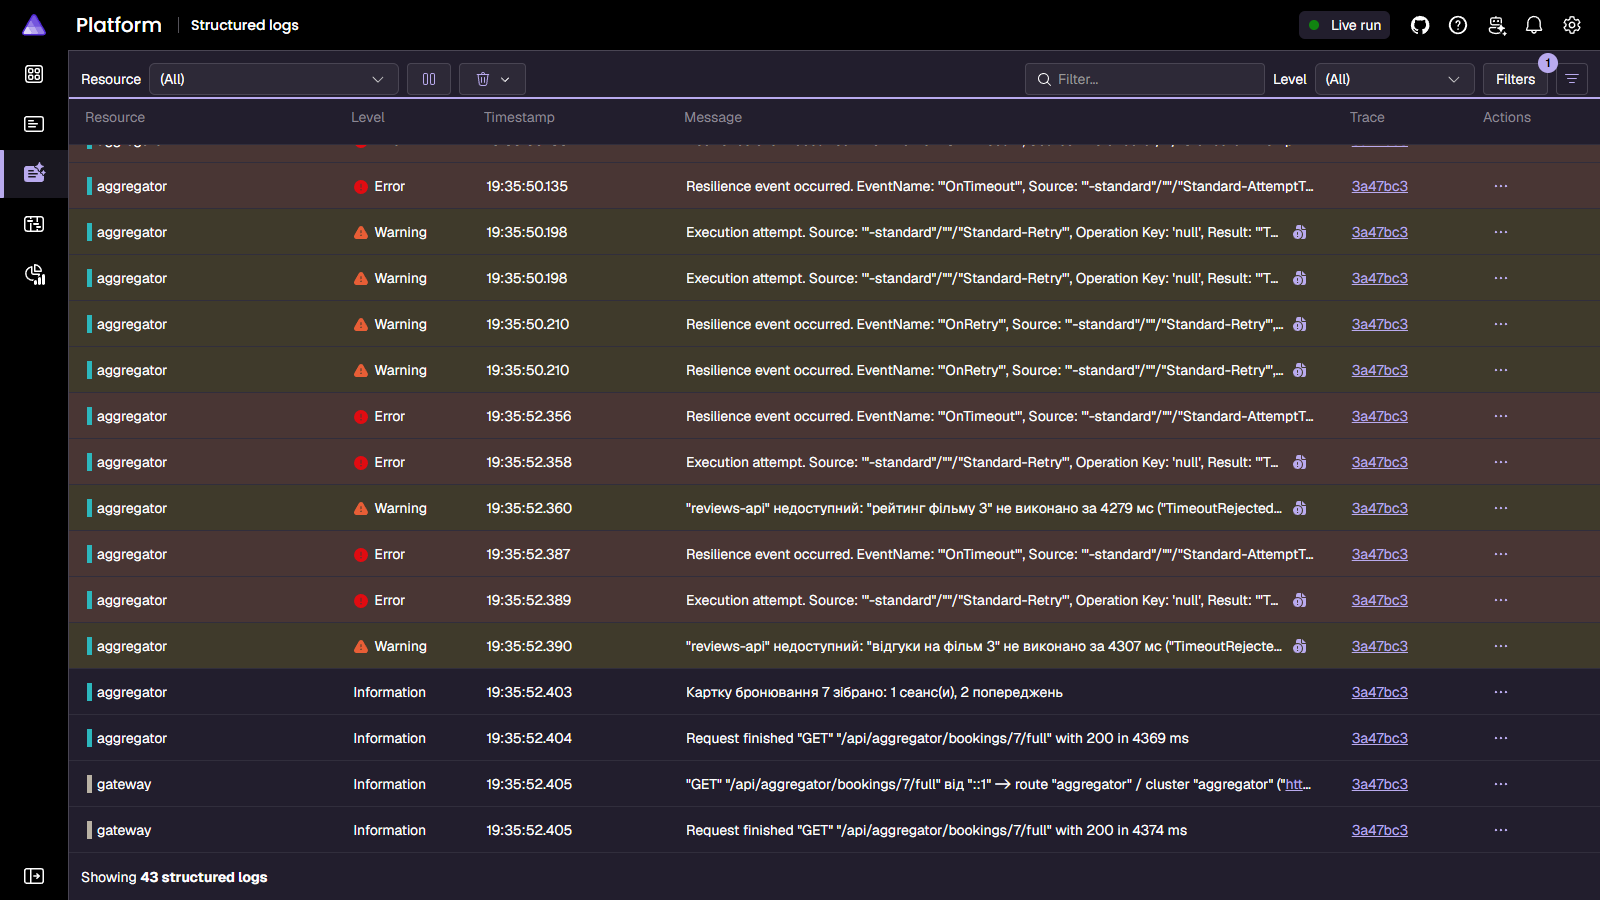
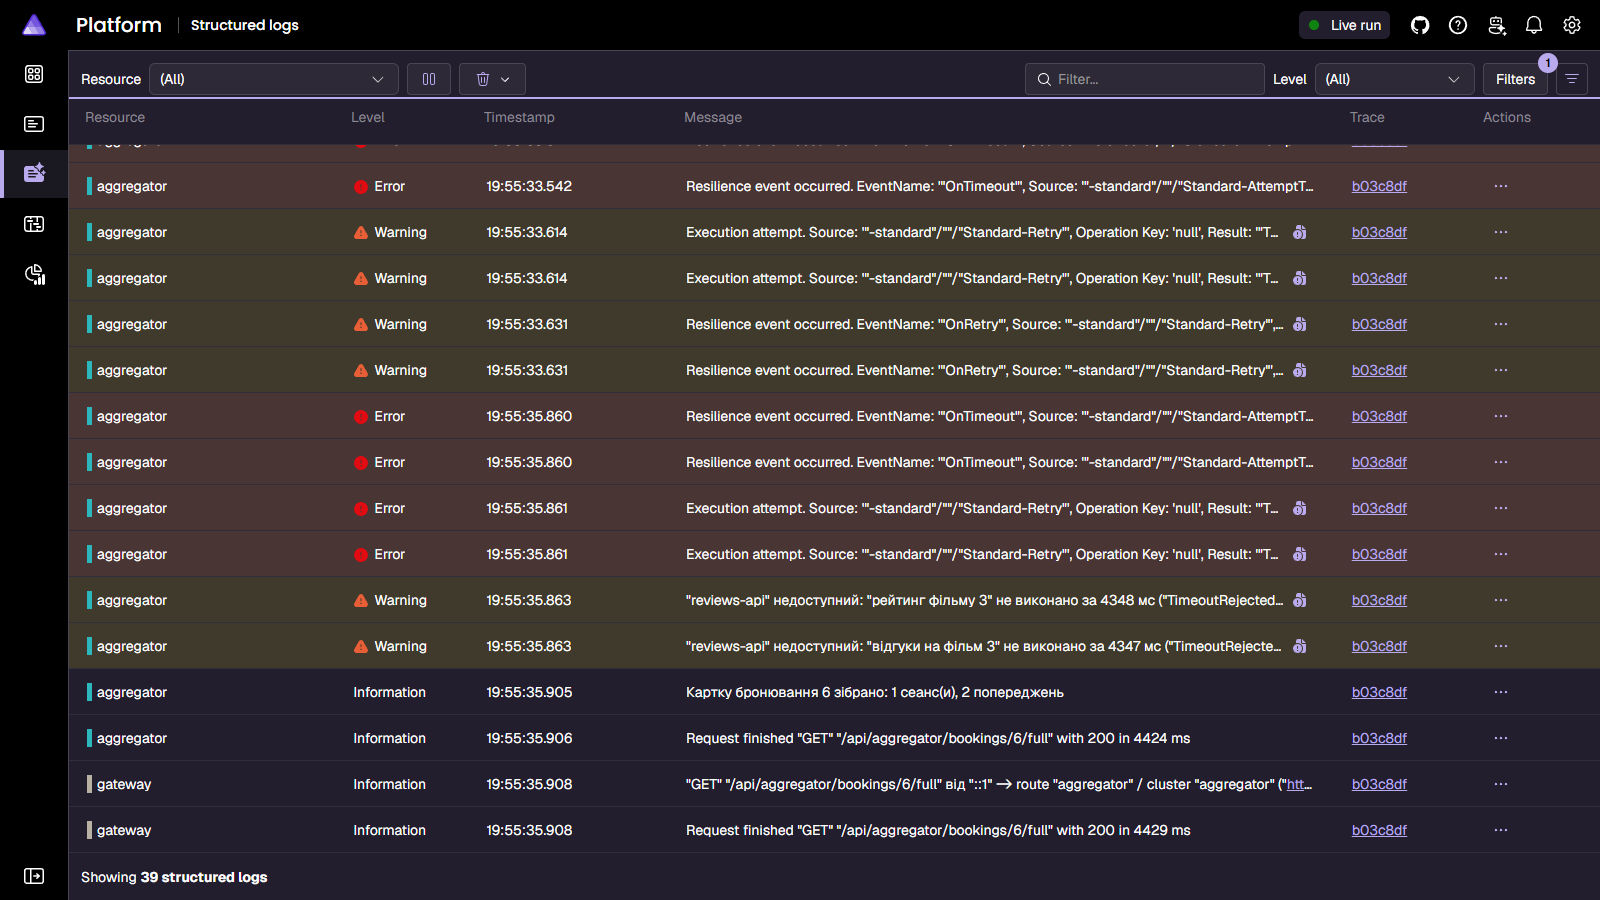
Lab05: доопрацювання — без дублювання Serilog і CorrelationId у сервісах, бізнес-логи в контролерах, Dockerfile для Gateway і Catalog, перевірка чистого старту

diff --git a/docs/lab05/scripts/demo.js b/docs/lab05/scripts/demo.js
@@ -78,6 +78,7 @@ function listenPort(exe) {
   const f = encodeURIComponent('CorrelationId:equals:demo-aggregate-booking');
   await shot(`/structuredlogs?filters=${f}`, 'logs-by-correlation-id.png', 7000);
   await shot('/traces', 'traces-list.png');
+  await shot('/structuredlogs?logLevel=error', 'check-errors-before-stop.png');   // перевірка: помилок старту немає
 
   // ---------- 4. Часткова відмова: зупиняємо reviews-api ----------
   try { execSync('taskkill /IM Reviews.WebApi.exe /F'); console.log('reviews-api stopped'); } catch (e) { console.log('taskkill: ' + e.message); }

diff --git a/Services/Booking/BookingService.Api/Controllers/BookingsController.cs b/Services/Booking/BookingService.Api/Controllers/BookingsController.cs
@@ -1,3 +1,4 @@
+using System.Diagnostics;
 using BookingService.Bll.Dtos;
 using BookingService.Bll.Services;
 using Microsoft.AspNetCore.Mvc;
@@ -12,7 +13,7 @@ namespace BookingService.Api.Controllers;
 [ApiController]
 [Route("api/bookings")]
 [Produces("application/json")]
-public sealed class BookingsController(IBookingService bookings) : ControllerBase
+public sealed class BookingsController(IBookingService bookings, ILogger<BookingsController> logger) : ControllerBase
 {
     /// <summary>Бронювання з квитками та історією статусів.</summary>
     [HttpGet("{id:long}")]
@@ -32,6 +33,10 @@ public sealed class BookingsController(IBookingService bookings) : ControllerBas
     public async Task<ActionResult<BookingDto>> Create(CreateBookingDto input, CancellationToken ct)
     {
         var created = await bookings.CreateAsync(input, ct);
+        Activity.Current?.SetTag("booking.id", created.Id);           // бізнес-атрибути на span HTTP-запиту
+        Activity.Current?.SetTag("booking.status", created.Status);
+        logger.LogInformation("API: бронювання {BookingId} створено через канал {Channel}, статус {Status}",
+            created.Id, created.Channel, created.Status);
         return CreatedAtAction(nameof(GetById), new { id = created.Id }, created);
     }
 
@@ -44,6 +49,8 @@ public sealed class BookingsController(IBookingService bookings) : ControllerBas
         [FromBody(EmptyBodyBehavior = EmptyBodyBehavior.Allow)] BookingActionDto? action, CancellationToken ct)
     {
         await bookings.ConfirmAsync(id, action, ct);
+        Activity.Current?.SetTag("booking.id", id);
+        logger.LogInformation("API: бронювання {BookingId} підтверджено", id);
         return NoContent();
     }
 
@@ -61,6 +68,10 @@ public sealed class BookingsController(IBookingService bookings) : ControllerBas
         [FromHeader(Name = "Idempotency-Key")] string? idempotencyKey, CancellationToken ct)
     {
         var result = await bookings.PayAsync(id, input, idempotencyKey, ct);
+        Activity.Current?.SetTag("booking.id", id);
+        Activity.Current?.SetTag("payment.replayed", result.Replayed);
+        logger.LogInformation("API: оплата {PaymentId} бронювання {BookingId}, повторний запит: {Replayed}",
+            result.Payment.Id, id, result.Replayed);
         return result.Replayed
             ? Ok(result.Payment)
             : CreatedAtAction(nameof(Payments), new { id }, result.Payment);
@@ -87,6 +98,8 @@ public sealed class BookingsController(IBookingService bookings) : ControllerBas
         [FromBody(EmptyBodyBehavior = EmptyBodyBehavior.Allow)] BookingActionDto? action, CancellationToken ct)
     {
         await bookings.CancelAsync(id, action, ct);
+        Activity.Current?.SetTag("booking.id", id);
+        logger.LogInformation("API: бронювання {BookingId} скасовано", id);
         return NoContent();
     }
 

diff --git a/Services/Reviews/Reviews.WebApi/Controllers/ReviewsController.cs b/Services/Reviews/Reviews.WebApi/Controllers/ReviewsController.cs
@@ -1,3 +1,4 @@
+using System.Diagnostics;
 using Microsoft.AspNetCore.Mvc;
 using Reviews.Application.Common.Models;
 using Reviews.Application.Reviews.Commands;
@@ -8,7 +9,7 @@ namespace Reviews.WebApi.Controllers;
 
 /// <summary>Відгуки глядачів (колекція reviews) з вкладеними коментарями.</summary>
 [Route("api/reviews")]
-public sealed class ReviewsController : ApiControllerBase
+public sealed class ReviewsController(ILogger<ReviewsController> logger) : ApiControllerBase
 {
     /// <summary>
     /// Список відгуків: фільтри (фільм, автор, оцінка, перевірений глядач), повнотекстовий пошук search,
@@ -52,6 +53,9 @@ public sealed class ReviewsController : ApiControllerBase
     {
         var review = await Sender.Send(command, ct);
         SetETag(review.Version);
+        Activity.Current?.SetTag("review.id", review.Id);
+        Activity.Current?.SetTag("movie.id", review.MovieId);
+        logger.LogInformation("API: відгук {ReviewId} на фільм {MovieId} опубліковано, оцінка {Rating}", review.Id, review.MovieId, review.Rating);
         return CreatedAtAction(nameof(GetById), new { id = review.Id }, review);
     }
 
@@ -66,6 +70,8 @@ public sealed class ReviewsController : ApiControllerBase
     {
         var review = await Sender.Send(MapCommand<UpdateReviewCommand>(request, id, IfMatchVersion()), ct);
         SetETag(review.Version);
+        Activity.Current?.SetTag("review.id", review.Id);
+        logger.LogInformation("API: відгук {ReviewId} оновлено до версії {Version}", review.Id, review.Version);
         return Ok(review);
     }
 
@@ -78,6 +84,8 @@ public sealed class ReviewsController : ApiControllerBase
     public async Task<IActionResult> Delete(string id, [FromHeader(Name = "If-Match")] string? ifMatch, CancellationToken ct)
     {
         await Sender.Send(new DeleteReviewCommand(id, IfMatchVersion()), ct);
+        Activity.Current?.SetTag("review.id", id);
+        logger.LogInformation("API: відгук {ReviewId} видалено", id);
         return NoContent();
     }
 

diff --git a/Services/Booking/BookingService.Api/Program.cs b/Services/Booking/BookingService.Api/Program.cs
@@ -1,8 +1,9 @@
+using System.Diagnostics;
 using System.Reflection;
+using System.Text;
 using BookingService.Api.Infrastructure;
 using BookingService.Bll;
-using System.Text;
-using Serilog;
+using Platform.ServiceDefaults;
 
 Console.OutputEncoding = Encoding.UTF8;   // українські повідомлення в консолі без «кракозябр»
 
@@ -27,8 +28,8 @@ builder.Services.AddControllers();
 // --- Помилки: доменні винятки → HTTP-статуси, формат ProblemDetails (RFC 9457) ----------
 builder.Services.AddProblemDetails(o => o.CustomizeProblemDetails = ctx =>
 {
-    ctx.ProblemDetails.Extensions["traceId"] = ctx.HttpContext.TraceIdentifier;
-    if (ctx.HttpContext.Items[CorrelationIdMiddleware.ItemKey] is string correlationId)
+    ctx.ProblemDetails.Extensions["traceId"] = Activity.Current?.TraceId.ToString() ?? ctx.HttpContext.TraceIdentifier;
+    if (ctx.HttpContext.Items[CorrelationIdMiddleware.ItemKey] is string correlationId)   // CorrelationId з ServiceDefaults
         ctx.ProblemDetails.Extensions["correlationId"] = correlationId;
 });
 builder.Services.AddExceptionHandler<DomainExceptionHandler>();
@@ -45,9 +46,7 @@ builder.Services.AddSwaggerGen(options =>
 
 var app = builder.Build();
 
-app.UseCorrelationId();                         // Лаб. 05: X-Correlation-Id з Gateway (або новий) → LogContext і відповідь
-app.UseMiddleware<CorrelationIdMiddleware>();   // CorrelationId — у кожен запис логу цього запиту
-app.UseSerilogRequestLogging();                 // один рядок на запит з ФІНАЛЬНИМ статусом (після обробника)
+app.UseCorrelationId();                         // Лаб. 05: X-Correlation-Id з Gateway (або новий) → LogContext, відповідь, лог початку/кінця запиту
 app.UseExceptionHandler();                      // доменні винятки → 404 / 409 / 400 (DomainExceptionHandler)
 app.UseStatusCodePages();                       // порожні 4xx/5xx теж повертаються як ProblemDetails
 

diff --git a/Services/Reviews/Reviews.WebApi/Program.cs b/Services/Reviews/Reviews.WebApi/Program.cs
@@ -1,3 +1,4 @@
+using System.Diagnostics;
 using System.Reflection;
 using System.Text;
 using System.Text.Json.Serialization;
@@ -7,7 +8,7 @@ using Reviews.Infrastructure.Persistence;
 using Reviews.Application;
 using Reviews.Infrastructure;
 using Reviews.WebApi.Infrastructure;
-using Serilog;
+using Platform.ServiceDefaults;
 
 Console.OutputEncoding = Encoding.UTF8;
 
@@ -40,8 +41,8 @@ builder.Services.AddControllers(o =>
 
 builder.Services.AddProblemDetails(o => o.CustomizeProblemDetails = ctx =>
 {
-    ctx.ProblemDetails.Extensions["traceId"] = ctx.HttpContext.TraceIdentifier;
-    if (ctx.HttpContext.Items[LogContextMiddleware.CorrelationItemKey] is string correlationId)
+    ctx.ProblemDetails.Extensions["traceId"] = Activity.Current?.TraceId.ToString() ?? ctx.HttpContext.TraceIdentifier;
+    if (ctx.HttpContext.Items[CorrelationIdMiddleware.ItemKey] is string correlationId)   // CorrelationId з ServiceDefaults
         ctx.ProblemDetails.Extensions["correlationId"] = correlationId;
 });
 builder.Services.AddExceptionHandler<GlobalExceptionHandler>();
@@ -61,9 +62,7 @@ builder.Services.AddSwaggerGen(options =>
 
 var app = builder.Build();
 
-app.UseCorrelationId();                           // Лаб. 05: X-Correlation-Id з Gateway (або новий)
-app.UseMiddleware<LogContextMiddleware>();        // CorrelationId, UserId, RequestPath у кожен запис логу
-app.UseSerilogRequestLogging();
+app.UseCorrelationId();                           // Лаб. 05: X-Correlation-Id з Gateway (або новий) → LogContext, відповідь, лог початку/кінця запиту
 app.UseExceptionHandler();                        // винятки → ProblemDetails (GlobalExceptionHandler)
 app.UseStatusCodePages();
 

diff --git a/Services/Catalog/CatalogService.Api/Controllers/ScreeningsController.cs b/Services/Catalog/CatalogService.Api/Controllers/ScreeningsController.cs
@@ -1,3 +1,4 @@
+using System.Diagnostics;
 using CatalogService.Api.Infrastructure;
 using CatalogService.Bll.Dtos;
 using CatalogService.Bll.Services;
@@ -10,7 +11,7 @@ namespace CatalogService.Api.Controllers;
 [ApiController]
 [Route("api/screenings")]
 [Produces("application/json")]
-public sealed class ScreeningsController(IScreeningService screenings) : ApiControllerBase
+public sealed class ScreeningsController(IScreeningService screenings, ILogger<ScreeningsController> logger) : ApiControllerBase
 {
     /// <summary>Розклад з фільтрами (дата, фільм, зала, формат, ціна), сортуванням і пагінацією — друга специфікація.</summary>
     [HttpGet]
@@ -42,6 +43,8 @@ public sealed class ScreeningsController(IScreeningService screenings) : ApiCont
     {
         if (!await IsValidAsync(validator, input, ct)) return ValidationProblem(ModelState);
         var created = await screenings.CreateAsync(input, ct);
+        Activity.Current?.SetTag("screening.id", created.Id);
+        logger.LogInformation("API: сеанс {ScreeningId} фільму {MovieId} заплановано на {StartsAt}", created.Id, created.MovieId, created.StartsAt);
         return CreatedAtAction(nameof(GetById), new { id = created.Id }, created);
     }
 
@@ -66,6 +69,8 @@ public sealed class ScreeningsController(IScreeningService screenings) : ApiCont
     public async Task<IActionResult> Cancel(long id, CancellationToken ct)
     {
         await screenings.CancelAsync(id, ct);
+        Activity.Current?.SetTag("screening.id", id);
+        logger.LogInformation("API: сеанс {ScreeningId} скасовано", id);
         return NoContent();
     }
 }

diff --git a/Services/Catalog/CatalogService.Api/Program.cs b/Services/Catalog/CatalogService.Api/Program.cs
@@ -1,8 +1,9 @@
+using System.Diagnostics;
 using System.Reflection;
 using System.Text;
 using CatalogService.Api.Infrastructure;
 using CatalogService.Bll;
-using Serilog;
+using Platform.ServiceDefaults;
 
 Console.OutputEncoding = Encoding.UTF8;
 
@@ -21,8 +22,8 @@ builder.Services.AddControllers();
 
 builder.Services.AddProblemDetails(o => o.CustomizeProblemDetails = ctx =>
 {
-    ctx.ProblemDetails.Extensions["traceId"] = ctx.HttpContext.TraceIdentifier;
-    if (ctx.HttpContext.Items[LogContextMiddleware.CorrelationItemKey] is string correlationId)
+    ctx.ProblemDetails.Extensions["traceId"] = Activity.Current?.TraceId.ToString() ?? ctx.HttpContext.TraceIdentifier;
+    if (ctx.HttpContext.Items[CorrelationIdMiddleware.ItemKey] is string correlationId)   // CorrelationId з ServiceDefaults
         ctx.ProblemDetails.Extensions["correlationId"] = correlationId;
 });
 builder.Services.AddExceptionHandler<GlobalExceptionHandler>();
@@ -38,9 +39,7 @@ builder.Services.AddSwaggerGen(options =>
 
 var app = builder.Build();
 
-app.UseCorrelationId();                           // Лаб. 05: X-Correlation-Id з Gateway (або новий)
-app.UseMiddleware<LogContextMiddleware>();        // CorrelationId, UserId, RequestPath → у кожен запис логу
-app.UseSerilogRequestLogging();
+app.UseCorrelationId();                           // Лаб. 05: X-Correlation-Id з Gateway (або новий) → LogContext, відповідь, лог початку/кінця запиту
 app.UseExceptionHandler();                        // винятки → ProblemDetails (GlobalExceptionHandler)
 app.UseStatusCodePages();
 

diff --git a/Services/Catalog/CatalogService.Api/Controllers/MoviesController.cs b/Services/Catalog/CatalogService.Api/Controllers/MoviesController.cs
@@ -1,3 +1,4 @@
+using System.Diagnostics;
 using CatalogService.Api.Infrastructure;
 using CatalogService.Bll.Dtos;
 using CatalogService.Bll.Services;
@@ -10,7 +11,7 @@ namespace CatalogService.Api.Controllers;
 [ApiController]
 [Route("api/movies")]
 [Produces("application/json")]
-public sealed class MoviesController(IMovieService movies) : ApiControllerBase
+public sealed class MoviesController(IMovieService movies, ILogger<MoviesController> logger) : ApiControllerBase
 {
     /// <summary>
     /// Список фільмів з пагінацією, фільтрацією та сортуванням (виконується в SQL: WHERE / ORDER BY / OFFSET-FETCH).
@@ -45,6 +46,8 @@ public sealed class MoviesController(IMovieService movies) : ApiControllerBase
     {
         if (!await IsValidAsync(validator, input, ct)) return ValidationProblem(ModelState);
         var created = await movies.CreateAsync(input, ct);
+        Activity.Current?.SetTag("movie.id", created.Id);
+        logger.LogInformation("API: фільм {MovieId} «{Title}» додано до каталогу", created.Id, created.Title);
         return CreatedAtAction(nameof(GetById), new { id = created.Id }, created);
     }
 
@@ -69,6 +72,8 @@ public sealed class MoviesController(IMovieService movies) : ApiControllerBase
     public async Task<IActionResult> Delete(int id, CancellationToken ct)
     {
         await movies.DeleteAsync(id, ct);
+        Activity.Current?.SetTag("movie.id", id);
+        logger.LogInformation("API: фільм {MovieId} знято з каталогу", id);
         return NoContent();
     }
 

diff --git a/Platform.ServiceDefaults/Extensions.cs b/Platform.ServiceDefaults/Extensions.cs
@@ -71,6 +71,8 @@ public static class Extensions
             // фільтрація шумних логів інфраструктури
             .MinimumLevel.Override("Microsoft", LogEventLevel.Warning)
             .MinimumLevel.Override("Microsoft.Hosting.Lifetime", LogEventLevel.Information)
+            // оброблені доменні винятки (404/409/400) логують самі IExceptionHandler-и, без дубля рівня Error від middleware
+            .MinimumLevel.Override("Microsoft.AspNetCore.Diagnostics.ExceptionHandlerMiddleware", LogEventLevel.Fatal)
             .MinimumLevel.Override("Microsoft.EntityFrameworkCore", LogEventLevel.Warning)
             .MinimumLevel.Override("System.Net.Http.HttpClient", LogEventLevel.Warning)
             .MinimumLevel.Override("Polly", LogEventLevel.Warning)
